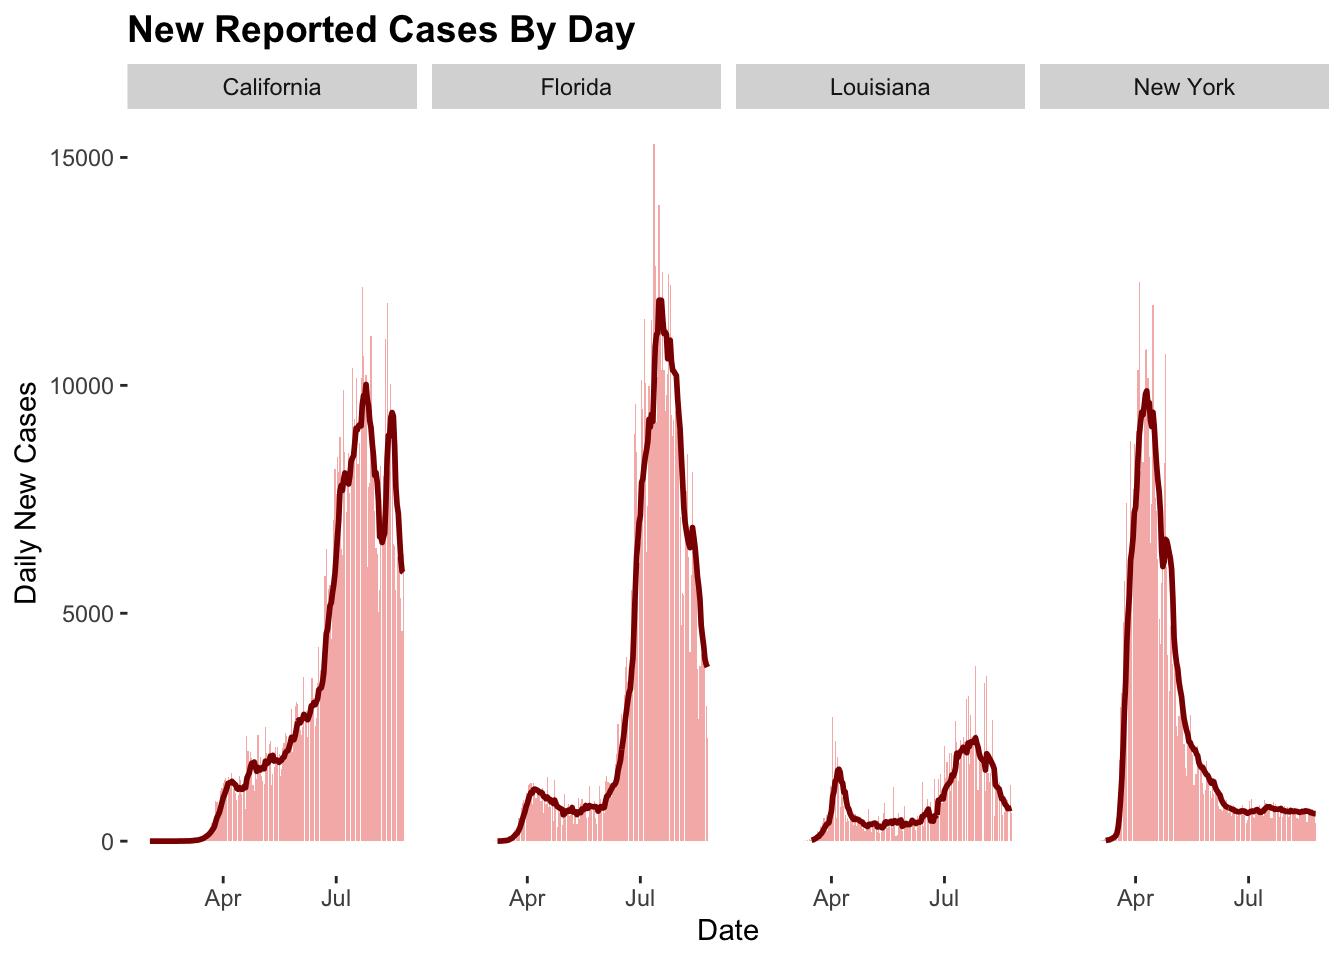
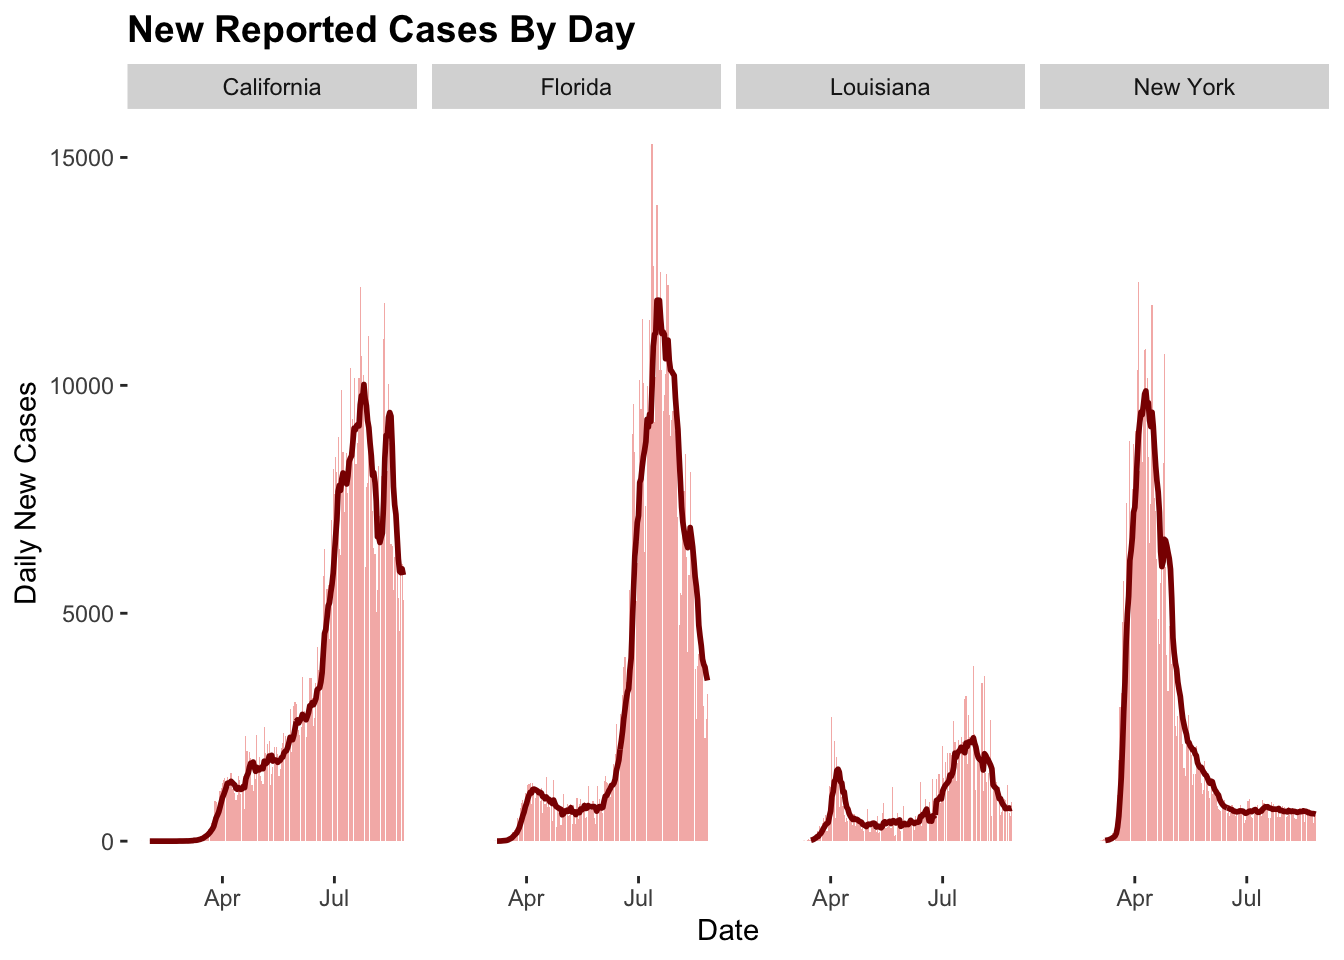
day-14 lab4

diff --git a/lab-04.html b/lab-04.html
@@ -12,7 +12,7 @@
 <meta name="author" content="Xingxin Li" />
 
 
-<title>day-07</title>
+<title>lab4</title>
 
 <script src="site_libs/jquery-1.11.3/jquery.min.js"></script>
 <meta name="viewport" content="width=device-width, initial-scale=1" />
@@ -340,110 +340,80 @@ $(document).ready(function () {
 
 
 
-<h1 class="title toc-ignore">day-07</h1>
+<h1 class="title toc-ignore">lab4</h1>
 <h4 class="author">Xingxin Li</h4>
-<h4 class="date">8/13/2020</h4>
+<h4 class="date">8/27/2020</h4>
 
 </div>
 
 
 <pre class="r"><code>library(tidyverse)
-library(ggplot2)
+library(sf)
+library(USAboundaries)
+library(rmapshaper)
+library(units)
+library(knitr)
+library(ggplot2)</code></pre>
+<pre class="r"><code>#Q1.1
+conus = USAboundaries::us_counties() %&gt;%
+  filter(!state_name %in% c(&quot;Puerto Rico&quot;, &quot;Alaska&quot;, &quot;Hawaii&quot;)) %&gt;%
+  st_transform(5070)
 
-url = &#39;https://raw.githubusercontent.com/nytimes/covid-19-data/master/us-counties.csv&#39;
+conus_ms = ms_simplify(conus, keep = 0.05)
 
-read_csv(url)</code></pre>
-<pre><code>## Parsed with column specification:
-## cols(
-##   date = col_date(format = &quot;&quot;),
-##   county = col_character(),
-##   state = col_character(),
-##   fips = col_character(),
-##   cases = col_double(),
-##   deaths = col_double()
-## )</code></pre>
-<pre><code>## # A tibble: 473,028 x 6
-##    date       county      state      fips  cases deaths
-##    &lt;date&gt;     &lt;chr&gt;       &lt;chr&gt;      &lt;chr&gt; &lt;dbl&gt;  &lt;dbl&gt;
-##  1 2020-01-21 Snohomish   Washington 53061     1      0
-##  2 2020-01-22 Snohomish   Washington 53061     1      0
-##  3 2020-01-23 Snohomish   Washington 53061     1      0
-##  4 2020-01-24 Cook        Illinois   17031     1      0
-##  5 2020-01-24 Snohomish   Washington 53061     1      0
-##  6 2020-01-25 Orange      California 06059     1      0
-##  7 2020-01-25 Cook        Illinois   17031     1      0
-##  8 2020-01-25 Snohomish   Washington 53061     1      0
-##  9 2020-01-26 Maricopa    Arizona    04013     1      0
-## 10 2020-01-26 Los Angeles California 06037     1      0
-## # … with 473,018 more rows</code></pre>
-<pre class="r"><code>counties&lt;-read.csv(url)
-state = read_csv(url)</code></pre>
-<pre><code>## Parsed with column specification:
-## cols(
-##   date = col_date(format = &quot;&quot;),
-##   county = col_character(),
-##   state = col_character(),
-##   fips = col_character(),
-##   cases = col_double(),
-##   deaths = col_double()
-## )</code></pre>
-<pre class="r"><code>head(counties)</code></pre>
-<pre><code>##         date    county      state  fips cases deaths
-## 1 2020-01-21 Snohomish Washington 53061     1      0
-## 2 2020-01-22 Snohomish Washington 53061     1      0
-## 3 2020-01-23 Snohomish Washington 53061     1      0
-## 4 2020-01-24      Cook   Illinois 17031     1      0
-## 5 2020-01-24 Snohomish Washington 53061     1      0
-## 6 2020-01-25    Orange California  6059     1      0</code></pre>
-<pre class="r"><code>select(state,cases)</code></pre>
-<pre><code>## # A tibble: 473,028 x 1
-##    cases
-##    &lt;dbl&gt;
-##  1     1
-##  2     1
-##  3     1
-##  4     1
-##  5     1
-##  6     1
-##  7     1
-##  8     1
-##  9     1
-## 10     1
-## # … with 473,018 more rows</code></pre>
-<pre class="r"><code>region = data.frame(state.abb = state.name, region = state.region)
+conus = mapview::npts(conus)
+simp = mapview::npts(conus_ms)</code></pre>
+<pre class="r"><code>#Q1.2
+county_centroid = st_centroid(conus_ms) %&gt;%
+  st_combine() %&gt;%
+  st_cast(&quot;MULTIPOINT&quot;)</code></pre>
+<pre class="r"><code>#Q1.3
+county_centroid_u = st_union(county_centroid)
 
-covid&lt;-counties %&gt;% inner_join(region, by = c(&quot;state&quot; = &quot;state.abb&quot;))
+v_grid = st_voronoi(county_centroid) %&gt;% 
+  st_cast() %&gt;% 
+  st_as_sf() %&gt;% 
+  mutate(id = 1:n())
 
-covid &lt;- covid[order(covid$region),]
+t_grid = st_triangulate(county_centroid) %&gt;% 
+  st_cast() %&gt;% 
+  st_as_sf() %&gt;% 
+  mutate(id = 1:n())
 
-covid$case &lt;- unlist(tapply(covid$cases, covid$region, cumsum))
-covid$death &lt;- unlist(tapply(covid$deaths, covid$region, cumsum))
+sq_grid = st_make_grid(county_centroid, n = c(70, 50)) %&gt;% 
+  st_as_sf() %&gt;% 
+  mutate(id = 1:n())
 
-covid1 &lt;- covid %&gt;%
-  pivot_longer(cols=c(&quot;case&quot;, &quot;death&quot;),
-               names_to=&quot;group&quot;,
-               values_to=&quot;Daily_Cumulative_Count&quot;)
+hex_grid = st_make_grid(county_centroid, n = c(70, 50), square = FALSE) %&gt;% 
+  st_as_sf() %&gt;% 
+  mutate(id = 1:n())</code></pre>
+<pre class="r"><code>#Q1.4 - Q1.7
+plot_tess = function(data, title){
+  ggplot() + 
+    geom_sf(data = data, fill = &quot;white&quot;, col = &quot;navy&quot;, size = .2) +   
+    theme_void() +
+    labs(title = title, caption = paste(&quot;This tesselation has:&quot;, nrow(data), &quot;tiles&quot; )) +
+    theme(plot.title = element_text(hjust = .5, color =  &quot;navy&quot;, face = &quot;bold&quot;))
+}
 
-covid1 &lt;- covid1[order(covid1$date),]
-
-covid$date = as.Date (covid$date)
-
-covid %&gt;%
-  group_by(date, region) %&gt;%
-  summarize(cases = sum(cases, na.rm = TRUE),deaths = sum(deaths, na.rm = TRUE)) %&gt;%
-  ungroup() %&gt;%
-  pivot_longer(cols = c(&#39;cases&#39;,&#39;deaths&#39;))  %&gt;%
-  ggplot(aes (x = date, y = value)) +
-  geom_line(col = &#39;gray80&#39;) +
-  geom_point(aes(col = region))+
-  labs(x = &quot;Date&quot;, y = &quot;Daily Cummulative Count&quot;,
-       title = &quot;Cummulative Cases and Deaths: Region&quot;,
-       subtitle = &quot;COVID-19 Data:NY-Times&quot;) +
-  facet_grid(name~region,scales = &quot;free_y&quot;) +
-  theme(legend.position = &quot;none&quot;) +
-  theme(plot.subtitle = element_text(color = &quot;navy&quot;, face = &quot;bold&quot;))</code></pre>
-<pre><code>## `summarise()` regrouping output by &#39;date&#39; (override with `.groups` argument)</code></pre>
-<p><img src="day-07_files/figure-html/unnamed-chunk-1-1.png" width="672" /></p>
+plot_tess(data = conus_ms, &quot;Counties Centroid Data&quot;)</code></pre>
+<p><img src="lab-04_files/figure-html/unnamed-chunk-5-1.png" width="672" /></p>
+<pre class="r"><code>v_grid = st_intersection(v_grid, st_union(conus_ms))
+plot_tess(v_grid, &quot;Voronoi Coverage&quot;) +
+  geom_sf(data = county_centroid, col = &quot;darkred&quot;, size = 0.2)</code></pre>
+<p><img src="lab-04_files/figure-html/unnamed-chunk-5-2.png" width="672" /></p>
+<pre class="r"><code>t_grid = st_intersection(t_grid, st_union(conus_ms))
+plot_tess(t_grid, &quot;Triangulated Coverage&quot;) +
+  geom_sf(data = county_centroid, col = &quot;darkred&quot;, size = 0.2)</code></pre>
+<p><img src="lab-04_files/figure-html/unnamed-chunk-5-3.png" width="672" /></p>
+<pre class="r"><code>sq_grid = st_intersection(sq_grid, st_union(conus_ms))
+plot_tess(sq_grid, &quot;Square Coverage&quot;) +
+  geom_sf(data = county_centroid, col = &quot;darkred&quot;, size = 0.2)</code></pre>
+<p><img src="lab-04_files/figure-html/unnamed-chunk-5-4.png" width="672" /></p>
+<pre class="r"><code>hex_grid = st_intersection(hex_grid, st_union(conus_ms))
+plot_tess(hex_grid, &quot;Hexagonal Coverage&quot;) +
+  geom_sf(data = county_centroid, col = &quot;darkred&quot;, size = 0.2)</code></pre>
+<p><img src="lab-04_files/figure-html/unnamed-chunk-5-5.png" width="672" /></p>
 
 
 

diff --git a/lab2.html b/lab2.html
@@ -356,7 +356,7 @@ library(readxl)
 
 url = &#39;https://raw.githubusercontent.com/nytimes/covid-19-data/master/us-counties.csv&#39;
 read_csv(url)</code></pre>
-<pre><code>## # A tibble: 466,567 x 6
+<pre><code>## # A tibble: 473,028 x 6
 ##    date       county      state      fips  cases deaths
 ##    &lt;date&gt;     &lt;chr&gt;       &lt;chr&gt;      &lt;chr&gt; &lt;dbl&gt;  &lt;dbl&gt;
 ##  1 2020-01-21 Snohomish   Washington 53061     1      0
@@ -369,7 +369,7 @@ read_csv(url)</code></pre>
 ##  8 2020-01-25 Snohomish   Washington 53061     1      0
 ##  9 2020-01-26 Maricopa    Arizona    04013     1      0
 ## 10 2020-01-26 Los Angeles California 06037     1      0
-## # … with 466,557 more rows</code></pre>
+## # … with 473,018 more rows</code></pre>
 <pre class="r"><code>source = &quot;/Users/xingxin/Github/geog176a-lab2/data/&quot;
 
 
@@ -412,23 +412,23 @@ knitr::kable(most_cum_cases,
 <tbody>
 <tr class="odd">
 <td align="left">Los Angeles</td>
-<td align="right">232893</td>
+<td align="right">235386</td>
 </tr>
 <tr class="even">
 <td align="left">Riverside</td>
-<td align="right">50744</td>
+<td align="right">51538</td>
 </tr>
 <tr class="odd">
 <td align="left">Orange</td>
-<td align="right">46307</td>
+<td align="right">47090</td>
 </tr>
 <tr class="even">
 <td align="left">San Bernardino</td>
-<td align="right">45246</td>
+<td align="right">46051</td>
 </tr>
 <tr class="odd">
 <td align="left">San Diego</td>
-<td align="right">36790</td>
+<td align="right">37285</td>
 </tr>
 </tbody>
 </table>
@@ -451,23 +451,23 @@ knitr::kable(most_new_cases,
 <tbody>
 <tr class="odd">
 <td align="left">Los Angeles</td>
-<td align="right">1198</td>
+<td align="right">1609</td>
 </tr>
 <tr class="even">
-<td align="left">Sacramento</td>
-<td align="right">815</td>
+<td align="left">Orange</td>
+<td align="right">448</td>
+</tr>
+<tr class="odd">
+<td align="left">San Bernardino</td>
+<td align="right">385</td>
+</tr>
+<tr class="even">
+<td align="left">Stanislaus</td>
+<td align="right">365</td>
 </tr>
 <tr class="odd">
 <td align="left">Riverside</td>
-<td align="right">800</td>
-</tr>
-<tr class="even">
-<td align="left">Santa Clara</td>
-<td align="right">463</td>
-</tr>
-<tr class="odd">
-<td align="left">Orange</td>
-<td align="right">353</td>
+<td align="right">338</td>
 </tr>
 </tbody>
 </table>
@@ -499,23 +499,23 @@ knitr::kable(most_cum_cases_pc,
 <tbody>
 <tr class="odd">
 <td align="left">Imperial</td>
-<td align="right">0.0573683</td>
+<td align="right">0.0579919</td>
 </tr>
 <tr class="even">
 <td align="left">Kings</td>
-<td align="right">0.0389499</td>
+<td align="right">0.0393684</td>
 </tr>
 <tr class="odd">
 <td align="left">Kern</td>
-<td align="right">0.0313641</td>
+<td align="right">0.0318051</td>
 </tr>
 <tr class="even">
 <td align="left">Tulare</td>
-<td align="right">0.0288098</td>
+<td align="right">0.0293289</td>
 </tr>
 <tr class="odd">
 <td align="left">Merced</td>
-<td align="right">0.0275605</td>
+<td align="right">0.0278882</td>
 </tr>
 </tbody>
 </table>
@@ -538,24 +538,24 @@ knitr::kable(most_new_cases_pc,
 </thead>
 <tbody>
 <tr class="odd">
-<td align="left">Madera</td>
-<td align="right">0.0009216</td>
+<td align="left">Stanislaus</td>
+<td align="right">0.0006628</td>
 </tr>
 <tr class="even">
-<td align="left">Merced</td>
-<td align="right">0.0005762</td>
+<td align="left">Fresno</td>
+<td align="right">0.0003143</td>
 </tr>
 <tr class="odd">
-<td align="left">Sacramento</td>
-<td align="right">0.0005251</td>
+<td align="left">San Joaquin</td>
+<td align="right">0.0003018</td>
 </tr>
 <tr class="even">
-<td align="left">Tulare</td>
-<td align="right">0.0005041</td>
+<td align="left">Kings</td>
+<td align="right">0.0002877</td>
 </tr>
 <tr class="odd">
-<td align="left">Solano</td>
-<td align="right">0.0003530</td>
+<td align="left">Glenn</td>
+<td align="right">0.0002818</td>
 </tr>
 </tbody>
 </table>
@@ -578,9 +578,9 @@ dat_14 = per_cap %&gt;%
 <div id="results-of-california" class="section level3">
 <h3>Results of California</h3>
 <ol style="list-style-type: decimal">
-<li><p>the total number of cases: 6.7623610^{5}</p></li>
-<li><p>the total number of new cases: 6292</p></li>
-<li><p>the total number of the total number of safe counties : 15</p></li>
+<li><p>the total number of cases: 6.8761210^{5}</p></li>
+<li><p>the total number of new cases: 5292</p></li>
+<li><p>the total number of the total number of safe counties : 17</p></li>
 </ol>
 <p># Question 2</p>
 <pre class="r"><code># facet plot of the daily new cases and the 7-day rolling mean

diff --git a/day-08.html b/day-08.html
@@ -365,9 +365,13 @@ read_csv(url)</code></pre>
 <pre class="r"><code>library(dplyr)
 library(ggplot2)
 library(tidyr)
-library(zoo)
-
-covid&lt;-read.csv(url)
+library(zoo)</code></pre>
+<pre><code>## 
+## Attaching package: &#39;zoo&#39;</code></pre>
+<pre><code>## The following objects are masked from &#39;package:base&#39;:
+## 
+##     as.Date, as.Date.numeric</code></pre>
+<pre class="r"><code>covid&lt;-read.csv(url)
 head(covid)</code></pre>
 <div data-pagedtable="false">
 <script data-pagedtable-source type="application/json">
